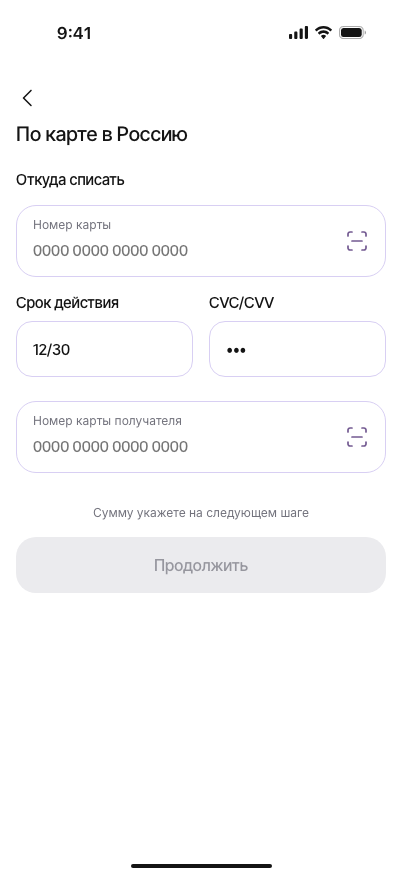
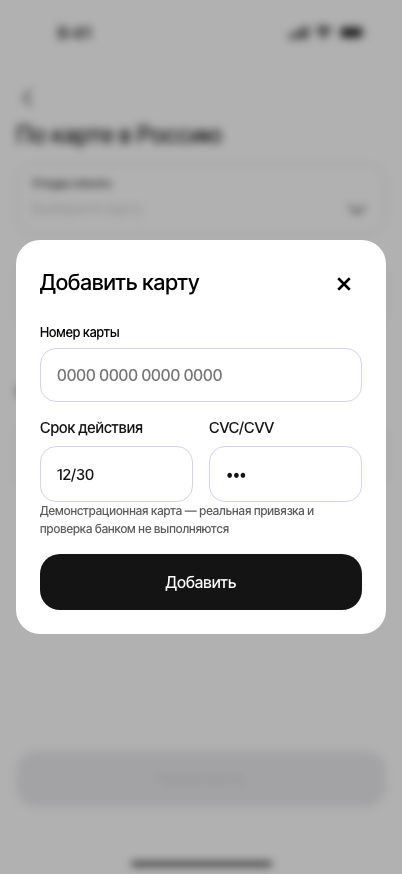
Match guest card transfer entry to Figma single-screen form

diff --git a/src/guest-transfer.js b/src/guest-transfer.js
@@ -1,45 +1,9 @@
-import { createDemoCardDetails } from './card-details.js';
-import { demoCardAvailability } from './card-availability.js';
-import { validCard, createAuthorizedTransfer } from './authorized-transfer.js';
+import { createAuthorizedTransfer } from './authorized-transfer.js';
 
 export function createGuestTransfer({ onBack, onHome = onBack, onTransfers = onBack }) {
-  const screen=document.createElement('main');
-  screen.className='authorized-transfer guest-transfer';
-  screen.innerHTML=`<button class="authorized-back" aria-label="Назад"><img src="./assets/images/back-chevron.svg" alt=""></button><h1>По карте в Россию</h1><form novalidate>
-  <section class="guest-source"><h2>Откуда списать</h2><div class="destination-field"><label for="guest-source">Номер карты</label><input id="guest-source" inputmode="numeric" autocomplete="off" placeholder="0000 0000 0000 0000" aria-describedby="guest-source-error"><button type="button" class="scan-card" aria-label="Сканировать карту отправителя"><img src="./assets/images/scan-card.svg" alt=""></button></div><p id="guest-source-error" class="field-error" role="alert"></p></section>
-  <section class="guest-destination"><div class="destination-field"><label for="guest-destination">Номер карты получателя</label><input id="guest-destination" inputmode="numeric" autocomplete="off" placeholder="0000 0000 0000 0000" aria-describedby="guest-destination-error"><button type="button" class="scan-card" aria-label="Сканировать карту получателя"><img src="./assets/images/scan-card.svg" alt=""></button></div><p id="guest-destination-error" class="field-error" role="alert"></p></section>
-  <div class="guest-next"><p>Сумму укажете на следующем шаге</p><button class="authorized-continue" disabled>Продолжить</button></div></form>
-  <dialog class="scan-info"><h2>Сканирование карты</h2><p>В прототипе введите номер вручную</p><button type="button">Понятно</button></dialog>`;
-  const fields=[...screen.querySelectorAll('input')];
-  const next=screen.querySelector('.authorized-continue');
-  const details=createDemoCardDetails(()=>update());
-  screen.querySelector('.guest-source').append(details);
-  const update=()=>{
-    fields.forEach(n=>{const error=screen.querySelector('#'+n.id+'-error');const unavailable=validCard(n.value)&&!demoCardAvailability(n.value).available;error.textContent=unavailable?demoCardAvailability(n.value).message:'';n.setAttribute('aria-invalid',String(unavailable));});
-    next.disabled=!details.demoComplete()||!fields.every(n=>validCard(n.value)&&demoCardAvailability(n.value).available)||fields[0].value===fields[1].value;
-  };
-  fields.forEach(n=>{
-    n.oninput=()=>{n.value=n.value.replace(/\D/g,'').slice(0,19).replace(/(.{4})/g,'$1 ').trim();screen.querySelector('#'+n.id+'-error').textContent='';n.setAttribute('aria-invalid','false');update();};
-    n.onblur=()=>{const error=screen.querySelector('#'+n.id+'-error');if(n.value&&!validCard(n.value)){error.textContent='Проверьте номер карты';n.setAttribute('aria-invalid','true');}else if(fields[0].value&&fields[0].value===fields[1].value){error.textContent='Карты отправителя и получателя должны отличаться';n.setAttribute('aria-invalid','true');}};
+  const screen = createAuthorizedTransfer({
+    cards: [], guest: true, transferKind: 'russia', onBack, onHome, onTransfers,
   });
-  const dialog=screen.querySelector('dialog');
-  screen.querySelectorAll('.scan-card').forEach(b=>b.onclick=()=>dialog.showModal());
-  dialog.querySelector('button').onclick=()=>dialog.close();
-  screen.querySelector('.authorized-back').onclick=onBack;
-  screen.querySelector('form').onsubmit=e=>{
-    e.preventDefault();if(next.disabled)return;
-    const guestCard={id:'guest-'+crypto.randomUUID(),name:'Карта отправителя',last4:fields[0].value.replace(/\D/g,'').slice(-4),balance:null,currency:'RUB',external:true};
-    const shared=createAuthorizedTransfer({
-      cards:[guestCard],card:guestCard,guest:true,sourceNumber:fields[0].value,initialNumber:fields[1].value,transferKind:'russia',
-      onBack:()=>{shared.remove();screen.querySelector('form').hidden=false;screen.querySelector('h1').hidden=false;screen.querySelector('.authorized-back').hidden=false;window.scrollTo(0,0);},
-      onHome:()=>{shared.remove();screen.remove();onHome();},onTransfers:()=>{shared.remove();screen.remove();onTransfers();}
-    });
-    screen.querySelector('form').hidden=true;screen.querySelector('h1').hidden=true;screen.querySelector('.authorized-back').hidden=true;
-    // Keep the shared screen as a sibling to avoid duplicate nested page chrome.
-    screen.after(shared);
-    shared.dataset.guestFlow='true';
-    window.scrollTo(0,0);
-
-  };
+  screen.classList.add('guest-transfer');
   return screen;
 }

diff --git a/src/authorized-transfer.js b/src/authorized-transfer.js
@@ -32,6 +32,8 @@ export function createAuthorizedTransfer({ cards, card, recipient, transferKind,
   }
   const screen = document.createElement('main');
   screen.className = 'authorized-transfer card-transfer';
+  const lockedGuestSource = guest && !!sourceNumber;
+  const guestSourceNumbers = new Map();
   let source = guest ? cards[0] : repeatAmount != null ? cards.find(c => c.id === card?.id) || null : null;
   let amountCurrency=defaultAmountCurrency(source);
   let savedRecipient = recipient || null;
@@ -80,6 +82,7 @@ export function createAuthorizedTransfer({ cards, card, recipient, transferKind,
     const last4=addInput.value.replace(/\D/g,'').slice(-4);
     const newCard={id:'added-'+Date.now(),name:'Добавленная карта',last4,balance:null,currency:'RUB',external:true};
     cards.push(newCard);
+    if (guest) guestSourceNumbers.set(newCard.id, addInput.value.replace(/\D/g, ''));
     saveDemoWallet();
     const button=document.createElement('button');button.type='button';button.dataset.source=newCard.id;
     button.innerHTML=sourceOption(newCard).replace(/^<button[^>]*>|<\/button>$/g,'');
@@ -135,7 +138,7 @@ export function createAuthorizedTransfer({ cards, card, recipient, transferKind,
       if(version===lookupVersion){bankLookupPending=false;update();}
     },350);
   }
-  function ready() { return !!source && availability?.available === true && (!!savedRecipient || validCard(input.value)); }
+  function ready() { return !!source && availability?.available === true && (!!savedRecipient || validCard(input.value)) && (!guest || input.value.replace(/\D/g, '') !== (guestSourceNumbers.get(source.id) || sourceNumber?.replace(/\D/g, ''))); }
   function update() { updateQuote(); }
   trigger.onclick = () => { options.hidden = !options.hidden; trigger.setAttribute('aria-expanded', String(!options.hidden)); };
   trigger.onkeydown = e => { if(e.key === 'ArrowDown'){ e.preventDefault(); options.hidden=false;trigger.setAttribute('aria-expanded','true');options.querySelector('button').focus(); } };
@@ -243,7 +246,7 @@ export function createAuthorizedTransfer({ cards, card, recipient, transferKind,
   function updateQuote() {
     sourceDetails.hidden=!source?.external || guest;
     trigger.classList.toggle('has-source',!!source);
-    if(!guest)screen.querySelector('.source-value').textContent=source?'•• '+source.last4+'   '+sourceName(source):'Выберите карту';
+    if(!lockedGuestSource)screen.querySelector('.source-value').textContent=source?'•• '+source.last4+'   '+sourceName(source):'Выберите карту';
     options.querySelectorAll('[data-source]').forEach(button=>{
       const selected=button.dataset.source===source?.id;
       button.setAttribute('aria-pressed',String(selected));
@@ -352,8 +355,8 @@ export function createAuthorizedTransfer({ cards, card, recipient, transferKind,
     };
     form.append(review);review.scrollIntoView({block:'nearest',behavior:'smooth'});
   };
-  if(guest){
-    screen.classList.add('guest-shared-transfer');
+  if(guest)screen.classList.add('guest-shared-transfer');
+  if(lockedGuestSource){
     screen.querySelector('.source-trigger').disabled=true;
     screen.querySelector('.source-chevron').hidden=true;
     screen.querySelector('.source-value').textContent='Карта •• '+source.last4;

diff --git a/src/styles.css b/src/styles.css
@@ -1218,3 +1218,6 @@ body:has(.card-transfer) .home-indicator { height:calc(32px + env(safe-area-inse
 /* Frequent operations scroll horizontally without a visible scrollbar. */
 .transfers-menu .menu-favorites .recipients { scrollbar-width:none; }
 .transfers-menu .menu-favorites .recipients::-webkit-scrollbar { display:none; width:0; height:0; }
+
+/* Guest entry uses the same Figma card-transfer fields and spacing. */
+.guest-transfer.card-transfer .scan-card { top:50%; }

diff --git a/README.md b/README.md
@@ -36,7 +36,7 @@ npm start
 
 Полные номера карт не сохраняются в браузерном хранилище. Для определения банка внешний сервис получает только первые восемь цифр. При добавлении карты баланс остаётся неизвестным.
 
-Гостевая форма ввода карт доступна со стартового экрана и по ссылке ?screen=guest. Расчёт гостевого перевода, сканирование и некоторые дополнительные способы оплаты пока не завершены.
+Гостевой перевод доступен со стартового экрана и по ссылке ?screen=guest. Экран соответствует Figma 138:5534: выбор/добавление карты отправителя, номер получателя и сумма с валютой находятся на одном экране. Без клавиатуры CTA находится внизу; при вводе используется системная клавиатура. Сканирование показывает пояснение о ручном вводе. Расчёт комиссии, подтверждение и демонстрационное завершение используют общую форму перевода.
 
 ## Структура
 
